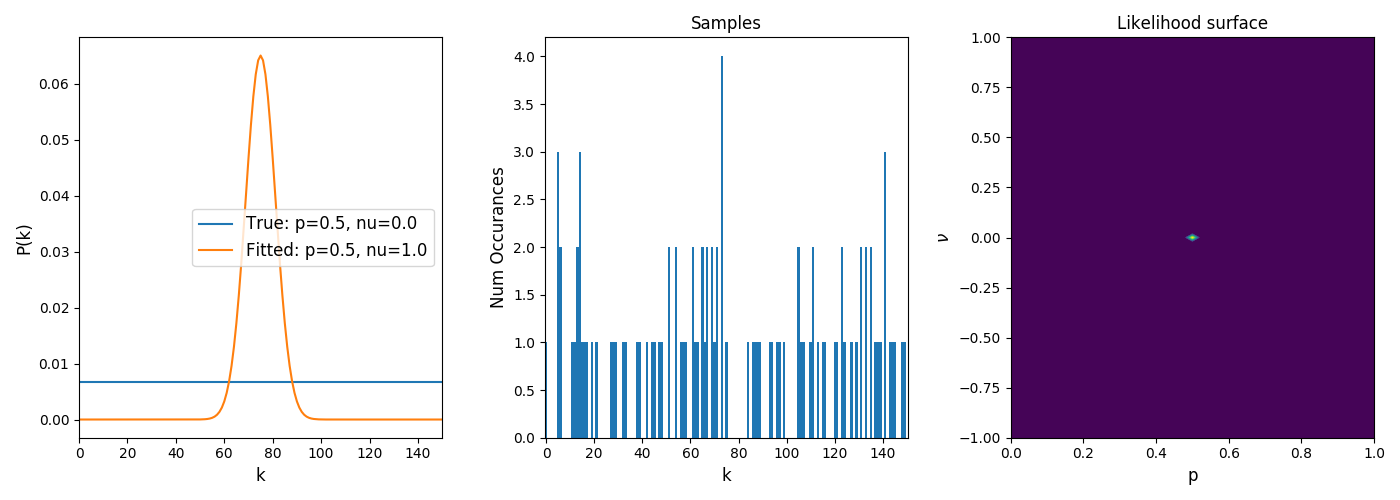
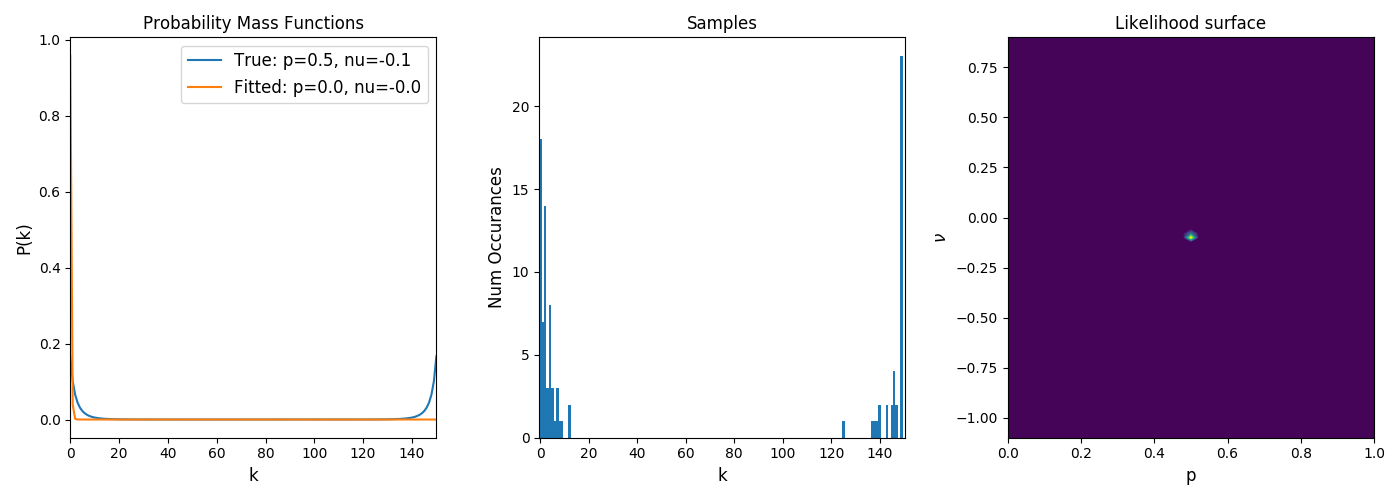
switched over to maximum likelihood. Implemented fitting. works better than MAP. Wrote some nice pltting functions. May animate later on.

diff --git a/py/conway_maxwell_binomial.py b/py/conway_maxwell_binomial.py
@@ -18,6 +18,7 @@ from scipy.optimize import minimize
 
 parser = argparse.ArgumentParser(description='For defining the Conway-Maxwell binomial distribution in a class, calculating some probabilities and taking some samples.')
 parser.add_argument('-p', '--params', help='Parameters for the Conway-Maxwell binomial distribution.', type=float, nargs=2, default=[0.5,1.0])
+parser.add_argument('-r', '--init', help='Initial guess for the paramters when fitting.', type=float, nargs=2, default=[0.05, -0.05])
 parser.add_argument('-m', '--num_bernoulli', help='Number of bernoulli variables to use.', default=50, type=int)
 parser.add_argument('-n', '--num_samples', help='The number of samples to take.', default=50, type=int)
 parser.add_argument('-s', '--save_fig', help='Flag to save the figure instead of showing it.', default=False, action='store_true')
@@ -202,7 +203,7 @@ def conwayMaxwellNegLogLike(params, m, samples):
     partition_part = np.log(com_dist.normaliser) - (nu * getLogFactorial(m)) - (m * np.log(1-p))
     return -(p_part - nu_part - n * partition_part)
 
-def estimateParams(m, samples):
+def estimateParams(m, samples, init):
     """
     For estimating the parameters of the Conway-Maxwell binomial distribution from the given samples.
     Arguments:  m, the number of bernoulli variables being used.
@@ -210,10 +211,10 @@ def estimateParams(m, samples):
     Return:     the fitted params, p and nu
     """
     bnds = ((0.000001,0.99999999),(-2,2))
-    res = minimize(conwayMaxwellNegLogLike, (0.5, 1), args=(m,samples), bounds=bnds)
+    res = minimize(conwayMaxwellNegLogLike, init, args=(m,samples), bounds=bnds)
     return res.x
 
-def plotConwayMaxwellPmf(com_dist, **kwargs):
+def plotConwayMaxwellPmf(com_dist, title='', **kwargs):
     """
     For plotting the pmf of the given distribution. 
     Arguments:  com_dist, distribution
@@ -224,6 +225,7 @@ def plotConwayMaxwellPmf(com_dist, **kwargs):
     plt.xlabel('k', fontsize='large')
     plt.ylabel('P(k)', fontsize='large')
     plt.legend(fontsize='large')
+    plt.title(title, fontsize='large') if title != '' else None
 
 def plotSamples(samples, m, title=''):
     """
@@ -284,13 +286,13 @@ if (not args.debug) & (__name__ == "__main__"):
     print(dt.datetime.now().isoformat() + ' INFO: ' + 'Sampling...')
     samples = true_distr.rvs(size=args.num_samples)
     print(dt.datetime.now().isoformat() + ' INFO: ' + 'Fitting parameters...')
-    est_p, est_nu = estimateParams(m, samples)
+    est_p, est_nu = estimateParams(m, samples, args.init)
     fitted_dist = ConwayMaxwellBinomial(est_p, est_nu, m)
     possible_nu_values = np.linspace(nu-1, nu+1, 101)
     print(dt.datetime.now().isoformat() + ' INFO: ' + 'Plotting...')
     plt.figure(figsize=(14,5))
     plt.subplot(1,3,1)
-    plotConwayMaxwellPmf(true_distr, label='True: p=' + str(p) + ', nu=' + str(nu))
+    plotConwayMaxwellPmf(true_distr, title='Probability Mass Functions', label='True: p=' + str(p) + ', nu=' + str(nu))
     plotConwayMaxwellPmf(fitted_dist, label='Fitted: p=' + str(np.round(est_p,1)) + ', nu=' + str(np.round(est_nu,1)))
     plt.subplot(1,3,2)
     plotSamples(samples, m, 'Samples')
